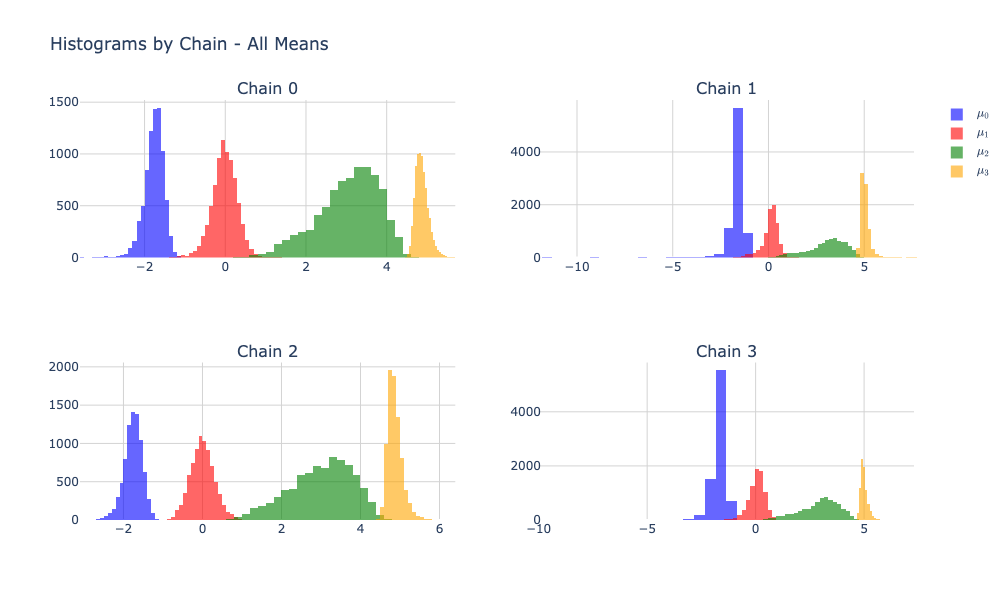
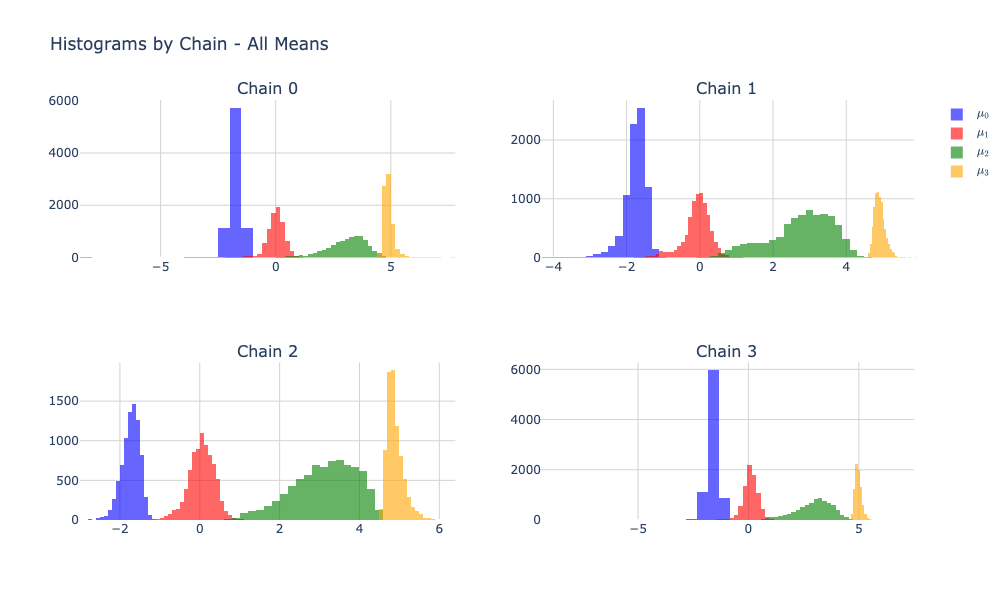
ensures reproducibility

diff --git a/gibbs_sampler.py b/gibbs_sampler.py
@@ -12,7 +12,7 @@ from state import State
 warnings.filterwarnings("ignore", category=DeprecationWarning)
 
 
-def sample_z(y: np.ndarray, state: State) -> np.ndarray:
+def sample_z(y: np.ndarray, state: State, rng: np.random.Generator) -> np.ndarray:
     """Sample cluster assignments for each data point.
 
     Uses the current values of pi and mu to compute posterior
@@ -21,6 +21,7 @@ def sample_z(y: np.ndarray, state: State) -> np.ndarray:
     Args:
         y: Observed data points.
         state: Current state containing pi and mu values.
+        rng: Random number generator.
 
     Returns:
         New cluster assignments for each data point.
@@ -34,26 +35,35 @@ def sample_z(y: np.ndarray, state: State) -> np.ndarray:
     logw -= logw.max(axis=1, keepdims=True)  # pylint: disable=unexpected-keyword-arg
     probs = np.exp(logw)
     probs /= probs.sum(axis=1, keepdims=True)
-    u = np.random.rand(len(y), 1)
+    u = rng.random((len(y), 1))
     return (np.cumsum(probs, axis=1) > u).argmax(axis=1)
 
 
-def sample_pi(z: np.ndarray, K: int, alpha: float = 1.0) -> np.ndarray:
+def sample_pi(
+    z: np.ndarray, K: int, rng: np.random.Generator, alpha: float = 1.0
+) -> np.ndarray:
     """Sample mixture weights from Dirichlet distribution.
 
     Args:
         z: Current cluster assignments.
         K: Number of mixture components.
+        rng: Random number generator.
         alpha: Dirichlet concentration parameter.
 
     Returns:
         New mixture weights sampled from posterior Dirichlet.
     """
-    return np.random.dirichlet(alpha + np.bincount(z, minlength=K))
+    return rng.dirichlet(alpha + np.bincount(z, minlength=K))
 
 
+# pylint: disable=too-many-arguments
 def sample_mu(
-    y: np.ndarray, z: np.ndarray, K: int, m0: float = 0.0, s0_2: float = 25.0
+    y: np.ndarray,
+    z: np.ndarray,
+    K: int,
+    rng: np.random.Generator,
+    m0: float = 0.0,
+    s0_2: float = 25.0,
 ) -> np.ndarray:
     """Sample mean parameters from normal distributions.
 
@@ -64,6 +74,7 @@ def sample_mu(
         y: Observed data points.
         z: Current cluster assignments.
         K: Number of mixture components.
+        rng: Random number generator.
         m0: Prior mean for component means.
         s0_2: Prior variance for component means.
 
@@ -75,16 +86,16 @@ def sample_mu(
         idx = z == k
         n_k = idx.sum()
         if n_k == 0:
-            mu[k] = np.random.normal(m0, np.sqrt(s0_2))
+            mu[k] = rng.normal(m0, np.sqrt(s0_2))
         else:
             ybar = y[idx].mean()
             post_var = 1.0 / (n_k + 1 / s0_2)
             post_mean = post_var * (n_k * ybar + m0 / s0_2)
-            mu[k] = np.random.normal(post_mean, np.sqrt(post_var))
+            mu[k] = rng.normal(post_mean, np.sqrt(post_var))
     return mu
 
 
-def gibbs_step(y: np.ndarray, state: State, K: int) -> State:
+def gibbs_step(y: np.ndarray, state: State, K: int, rng: np.random.Generator) -> State:
     """Perform one step of the Gibbs sampler.
 
     Sequentially samples z, pi, and mu given the current state.
@@ -93,13 +104,14 @@ def gibbs_step(y: np.ndarray, state: State, K: int) -> State:
         y: Observed data points.
         state: Current state of the sampler.
         K: Number of mixture components.
+        rng: Random number generator.
 
     Returns:
         New state after one Gibbs sampling step.
     """
-    z = sample_z(y, state)
-    pi = sample_pi(z, K)
-    mu = sample_mu(y, z, K)
+    z = sample_z(y, state, rng)
+    pi = sample_pi(z, K, rng)
+    mu = sample_mu(y, z, K, rng)
     return State(z, pi, mu)
 
 
@@ -122,7 +134,7 @@ def run_chain(y: np.ndarray, K: int, n_iter: int, burn: int, seed: int):
     kept = []
     t0 = time.perf_counter()
     for it in range(n_iter):
-        state = gibbs_step(y, state, K)
+        state = gibbs_step(y, state, K, rng)
         if it >= burn:
             kept.append(state.relabel().mu.copy())
     return np.vstack(kept), time.perf_counter() - t0
@@ -133,7 +145,7 @@ if __name__ == "__main__":
     ap.add_argument(
         "--data", type=str, default="data.npy", help="Path to the data file"
     )
-    ap.add_argument("--K", type=int, required=True, help="Number of mixture components")
+    ap.add_argument("--K", type=int, default=4, help="Number of mixture components")
     ap.add_argument("--n_iter", type=int, default=10000, help="Number of iterations")
     ap.add_argument("--burn", type=int, default=2000, help="Burn-in period")
     ap.add_argument("--chains", type=int, default=4, help="Number of chains")
